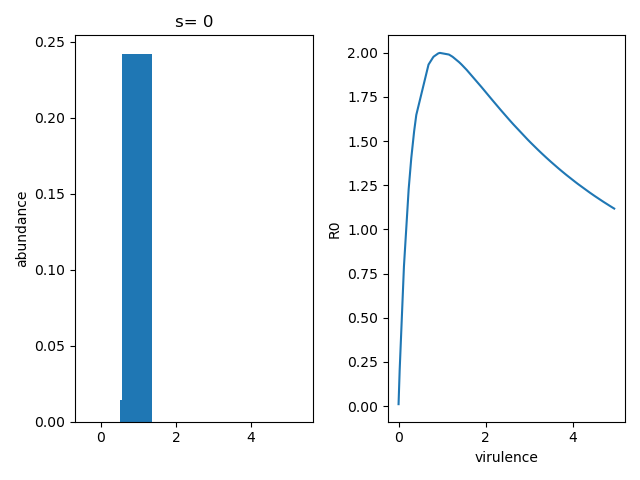
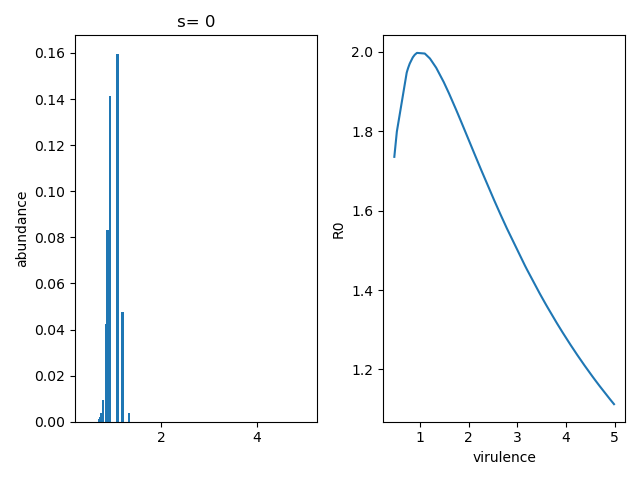
Functional advanced simulation

diff --git a/advanced_simulation.py b/advanced_simulation.py
@@ -14,7 +14,7 @@ import matplotlib.pyplot as plt
 
 # Time parameters
 step = 1/12  # one month
-span = 1000  # years
+span = 20  # years
 t = np.arange(1, 1 + span, step)
 
 
@@ -120,9 +120,9 @@ def fR(virus, S, I_list):
     """
     result = 0
 
-    b = virus.get_transmissibility()
+    a = virus.get_virulence()
 
-    result += np.dot(b, I_list)
+    result += np.dot(a, I_list)
 
     return S*result
 
@@ -178,7 +178,7 @@ def main():
     # Defining host and virus parameters
     birth = 1
     death = 1
-    total_strain = 50
+    total_strain = 100
     s = 0
     N = 10**(3)
     # a few infected at the beginning
@@ -196,25 +196,27 @@ def main():
     (S, I_array, R) = euler(host, virus, t)
 
     # plotting abundance in function of virulence
-    fig, (ax1, ax2) = plt.subplots(1, 2)
-
     # proportions of each strain at the end
-    abundance = I_array[n - 1, :]
-    ax1.bar(a, abundance)
-    ax1.set_ylabel("abundance")
-    ax1.set_title("s= {}".format(s))
+    sum_abundance = np.sum(I_array[n-1, :])
+    abundance = I_array[n - 1, :]/sum_abundance
 
-    # plotting R0 in function of virulence
-    R0s = [virus.get_R0(i, birth, death) for i in range(total_strain)]
-    ax2.plot(a, R0s)
-    ax2.set_xlabel("virulence")
-    ax2.set_ylabel("R0")
+    cmap = plt.get_cmap("jet")
+    def rescale(y): return (y - np.min(y)) / (np.max(y) - np.min(y))
+    plt.bar(a, abundance, width=0.02, color=cmap(rescale(a)))
+
+    # Plotting R0
+    #R0s = [virus.get_R0(i, birth, death) for i in range(total_strain)]
+    # plt.plot(a, R0s, c="yellow")
+
+    plt.ylabel("abundance")
+    plt.title("s= {}".format(s))
 
     # saving and showing figure
-    fig.tight_layout()
-    plt.savefig("superinfection with {} strains and s={}.png".format(
-        virus.get_strain_number(), virus.get_factor()))
+    plt.savefig("superinfection with {} strains, {:e} points and s={}.png".format(
+        n, virus.get_strain_number(), virus.get_factor()))
     plt.show()
+
+    # Plotting R0 in function of virulence
 
 
 main()
